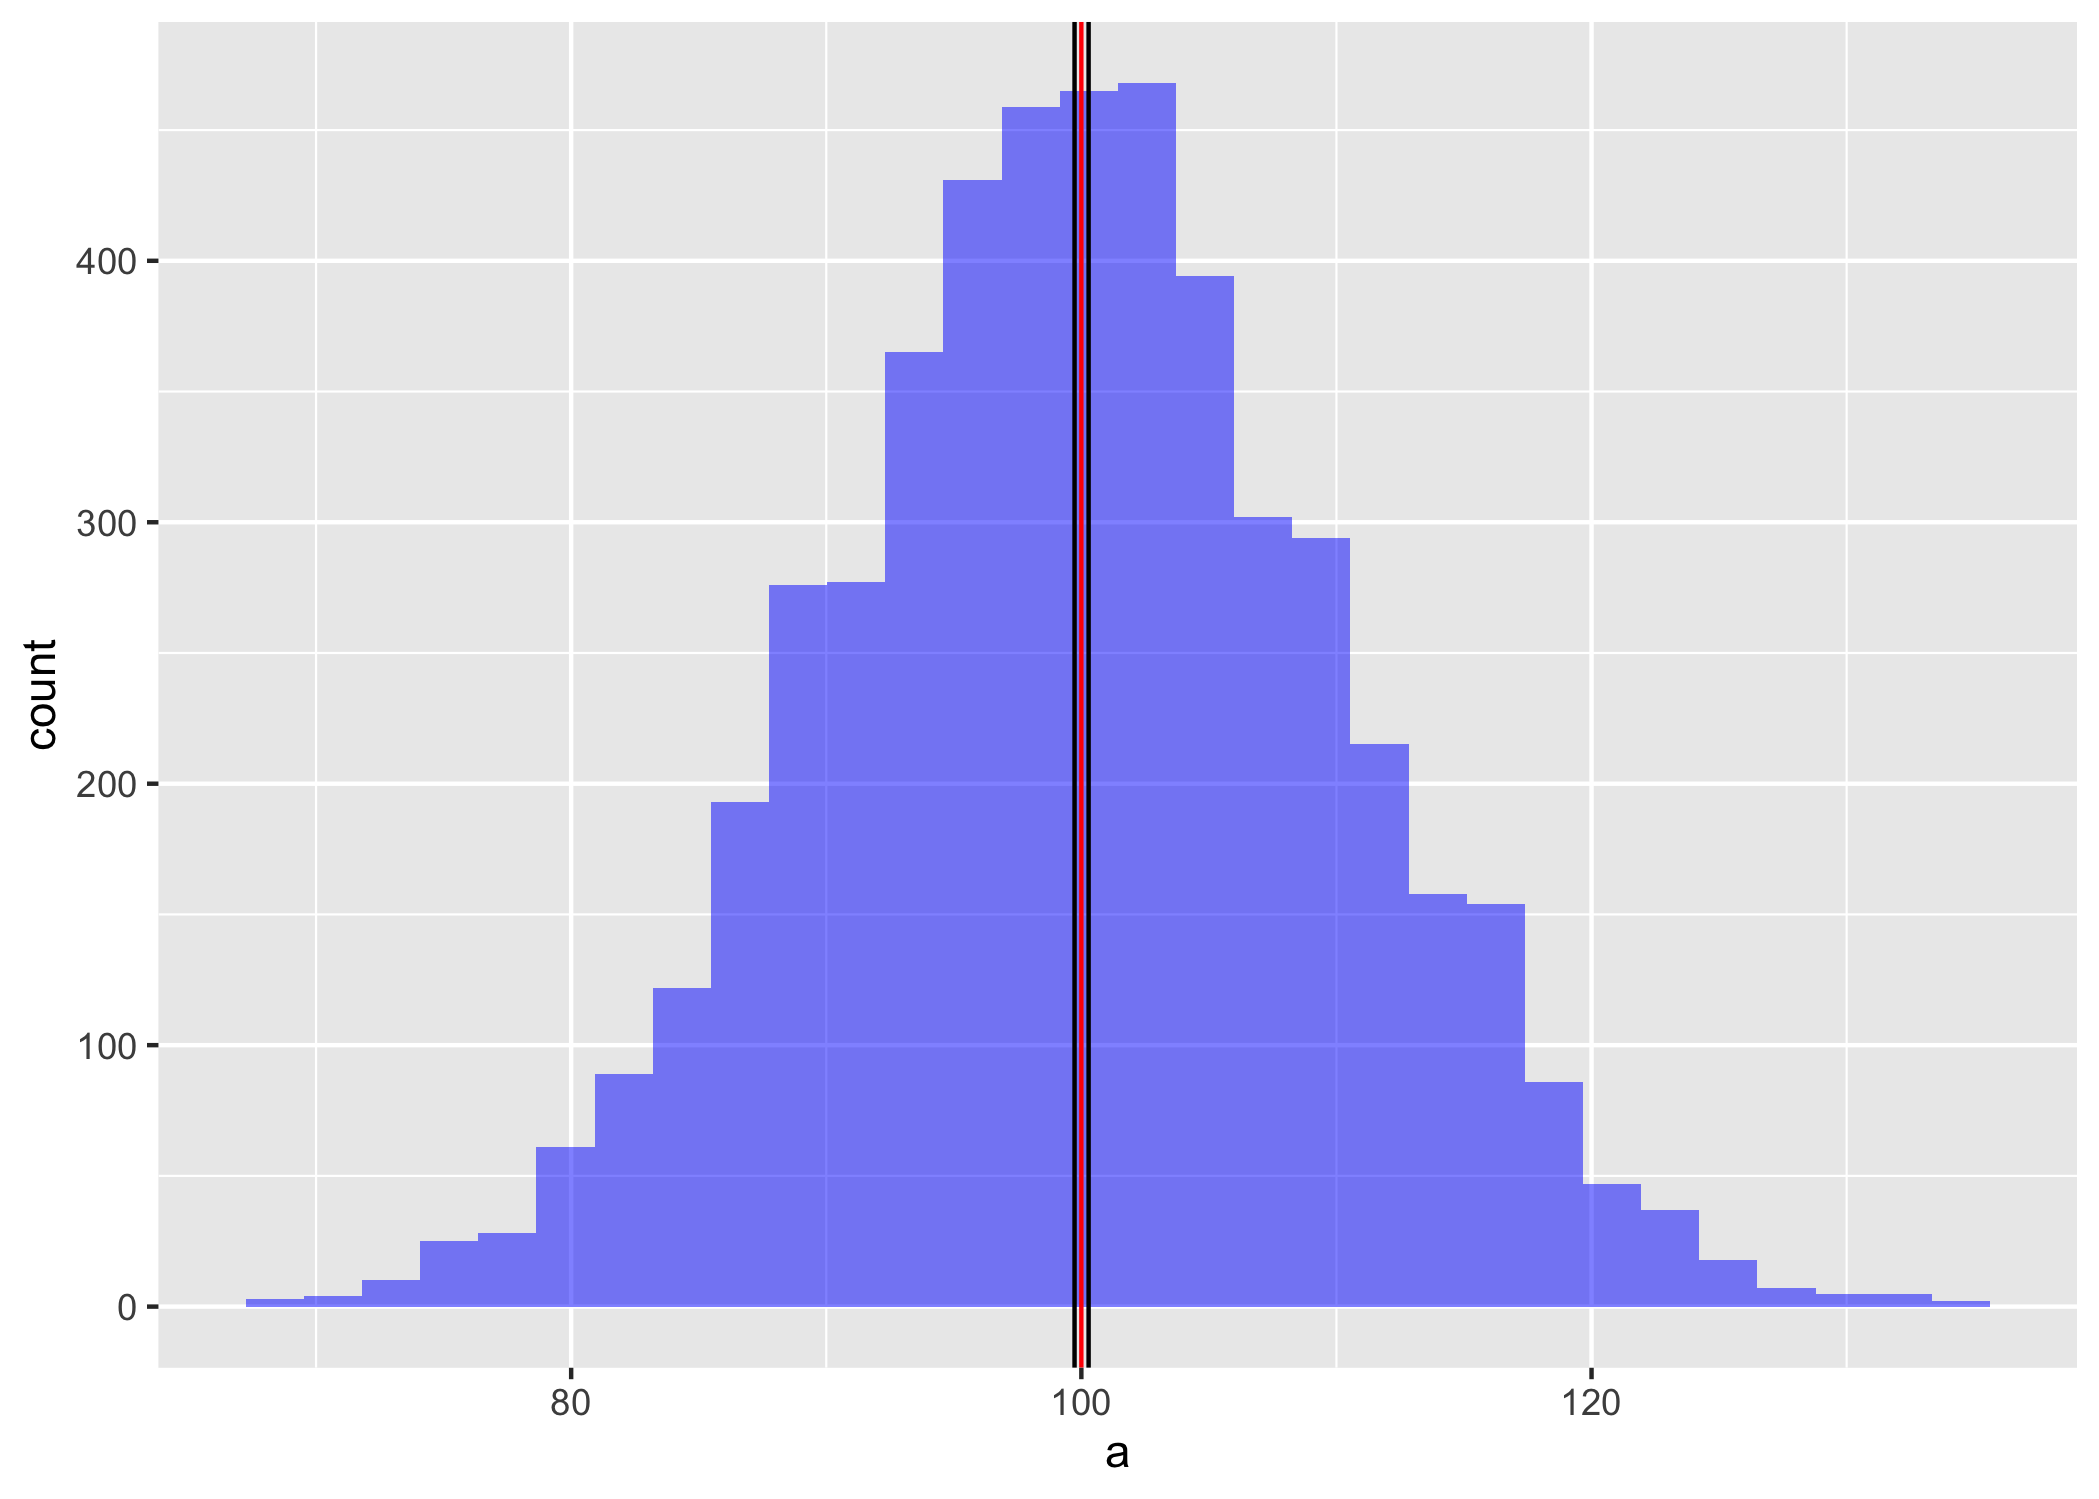
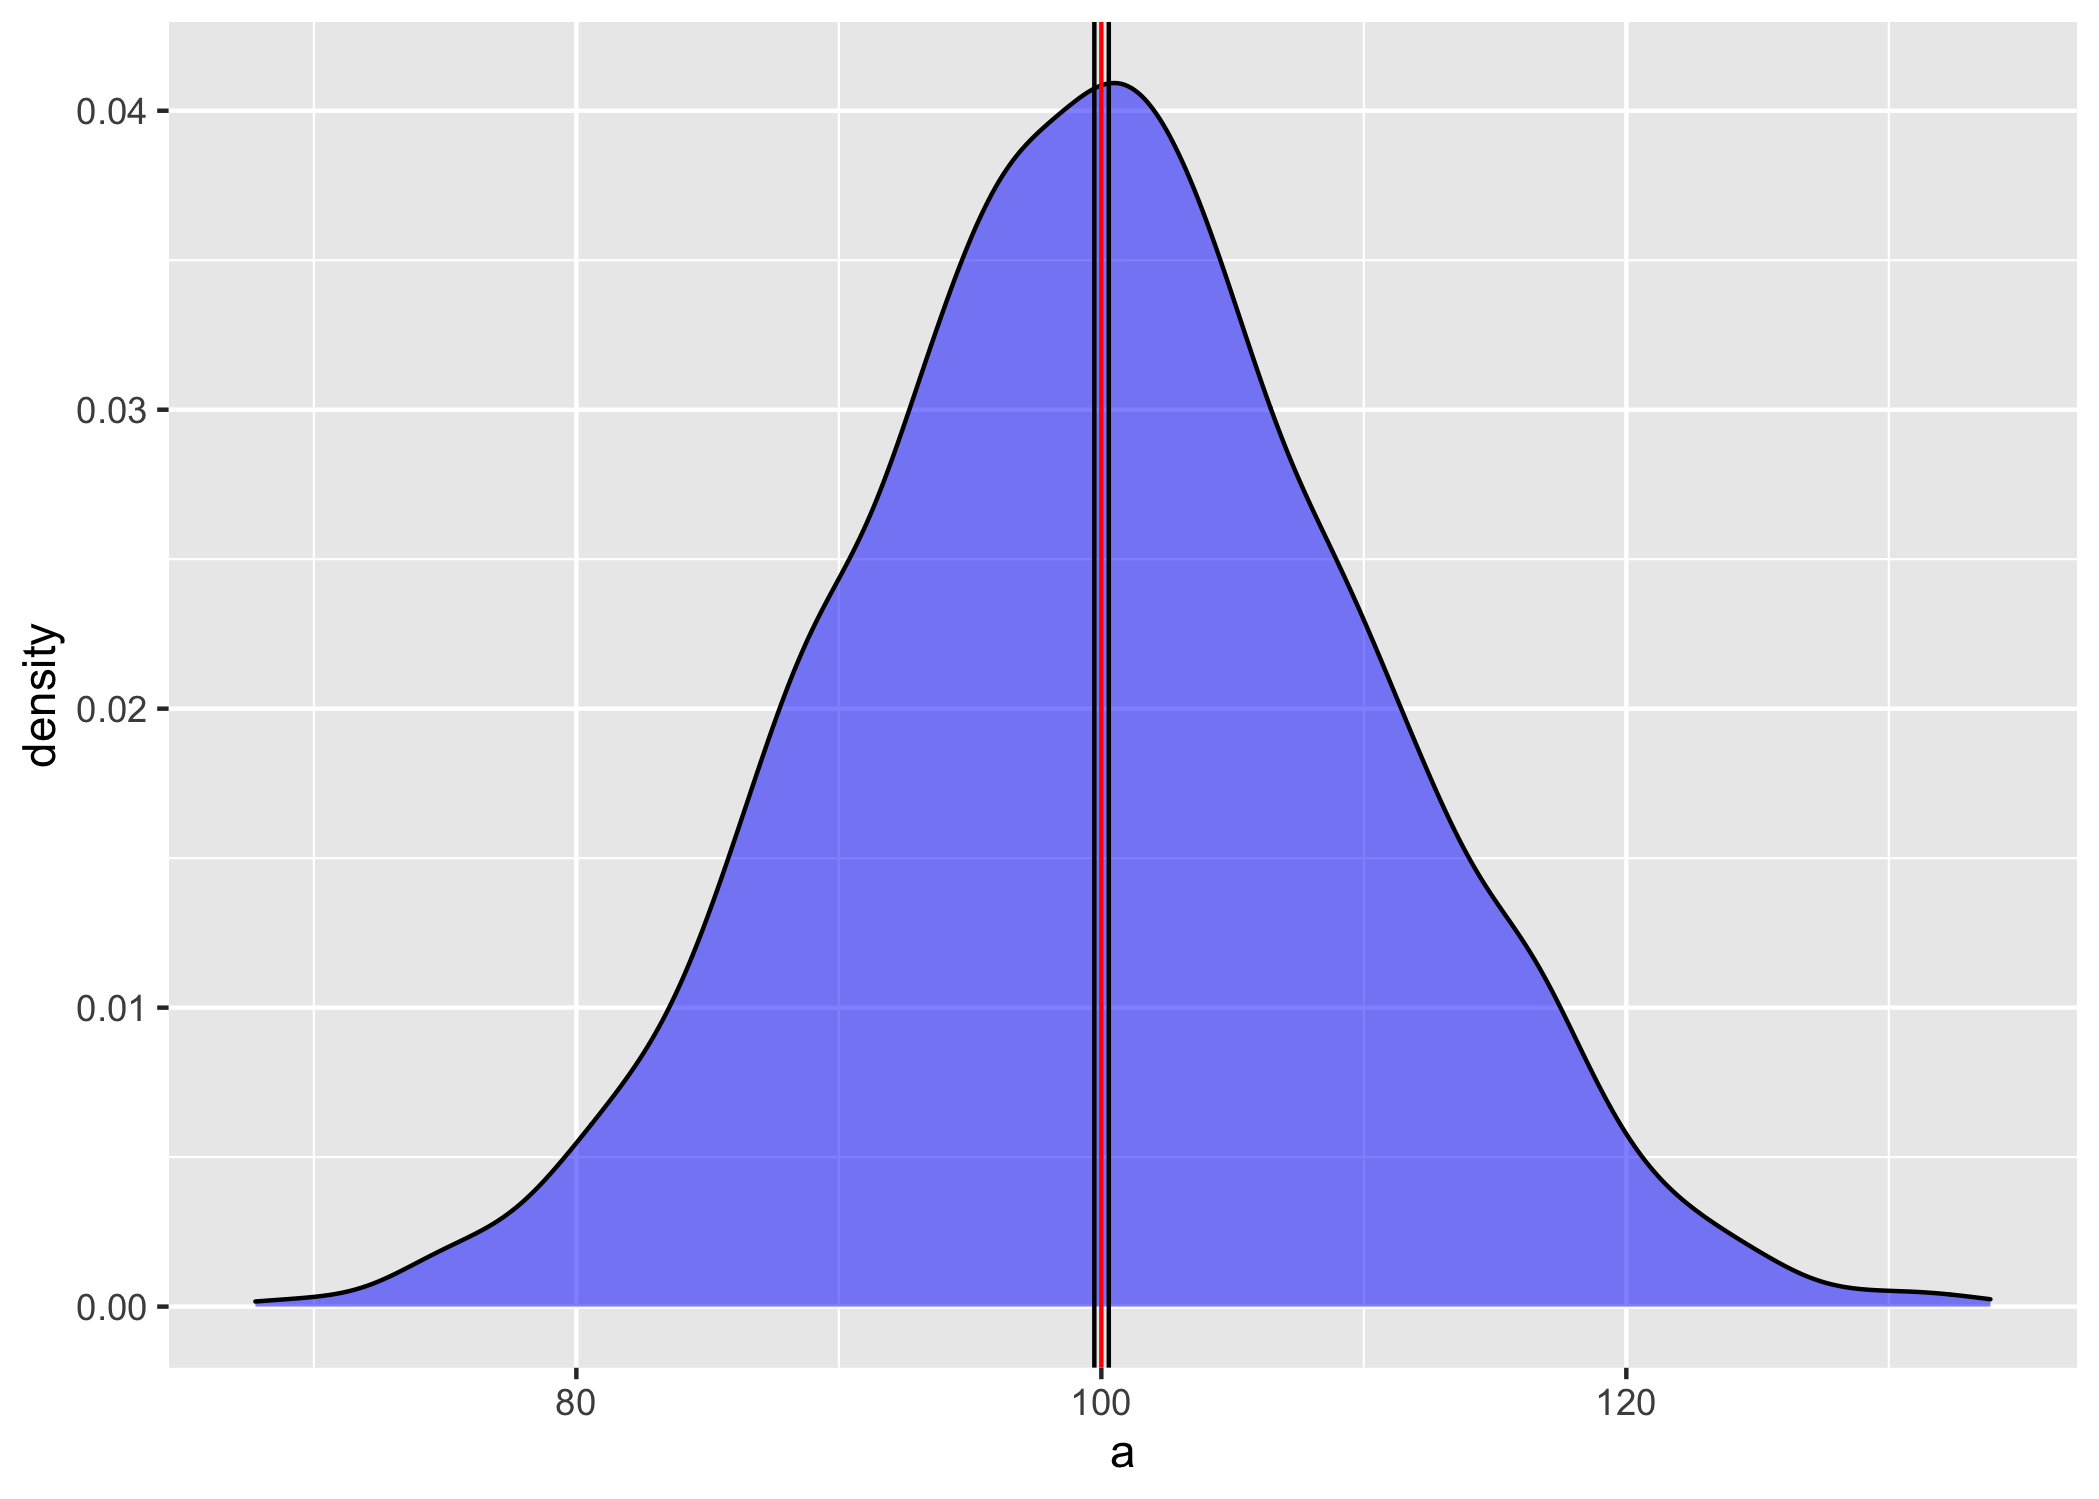
return to density

diff --git a/T4_Medidas_dispersión.html b/T4_Medidas_dispersión.html
@@ -886,7 +886,7 @@ div.tocify {
 <pre><code>## [1] 103.4564</code></pre>
 <p>Visualizando el intervalos de confianza del promedio. Lo que uno observa es que primero el promedio puede ser en localidad diferentes porque el conjunto de datos fue menos en el segundo gráfico. Además vemos que el intervalo de 95% de confianza del promedio en el segundo es más amplio.</p>
 <div class="sourceCode" id="cb58"><pre class="sourceCode r"><code class="sourceCode r"><span id="cb58-1"><a href="#cb58-1"></a>CI_a=<span class="kw">ggplot</span>(dfa, <span class="kw">aes</span>(a))<span class="op">+</span></span>
-<span id="cb58-2"><a href="#cb58-2"></a><span class="st">  </span><span class="kw">geom_histogram</span>(<span class="dt">fill=</span><span class="st">&quot;blue&quot;</span>, <span class="dt">alpha=</span>.<span class="dv">5</span>)<span class="op">+</span></span>
+<span id="cb58-2"><a href="#cb58-2"></a><span class="st">  </span><span class="kw">geom_density</span>(<span class="dt">fill=</span><span class="st">&quot;blue&quot;</span>, <span class="dt">alpha=</span>.<span class="dv">5</span>)<span class="op">+</span></span>
 <span id="cb58-3"><a href="#cb58-3"></a><span class="st">  </span><span class="kw">theme</span>(<span class="dt">legend.position =</span> <span class="st">&quot;none&quot;</span>) <span class="op">+</span></span>
 <span id="cb58-4"><a href="#cb58-4"></a><span class="st">  </span><span class="kw">geom_vline</span>(<span class="kw">aes</span>(<span class="dt">xintercept =</span> <span class="dv">100</span>), <span class="dt">colour=</span><span class="st">&quot;red&quot;</span>)<span class="op">+</span></span>
 <span id="cb58-5"><a href="#cb58-5"></a><span class="st">  </span><span class="kw">geom_vline</span>(<span class="kw">aes</span>(<span class="dt">xintercept =</span> Limite_inferior_a), <span class="dt">colour=</span><span class="st">&quot;black&quot;</span>)<span class="op">+</span></span>
@@ -1455,8 +1455,6 @@ div.tocify {
 </div>
 <div id="ejercicio-ahora-prepara-el-mismo-gráfico-para-los-hombres." class="section level3">
 <h3>Ejercicio: Ahora prepara el mismo gráfico para los hombres.</h3>
-<div class="sourceCode" id="cb75"><pre class="sourceCode r"><code class="sourceCode r"><span id="cb75-1"><a href="#cb75-1"></a><span class="co">#library(devtools)</span></span>
-<span id="cb75-2"><a href="#cb75-2"></a><span class="co">#install_github(&quot;kassambara/easyGgplot2&quot;)</span></span></code></pre></div>
 </div>
 </div>
 </div>
